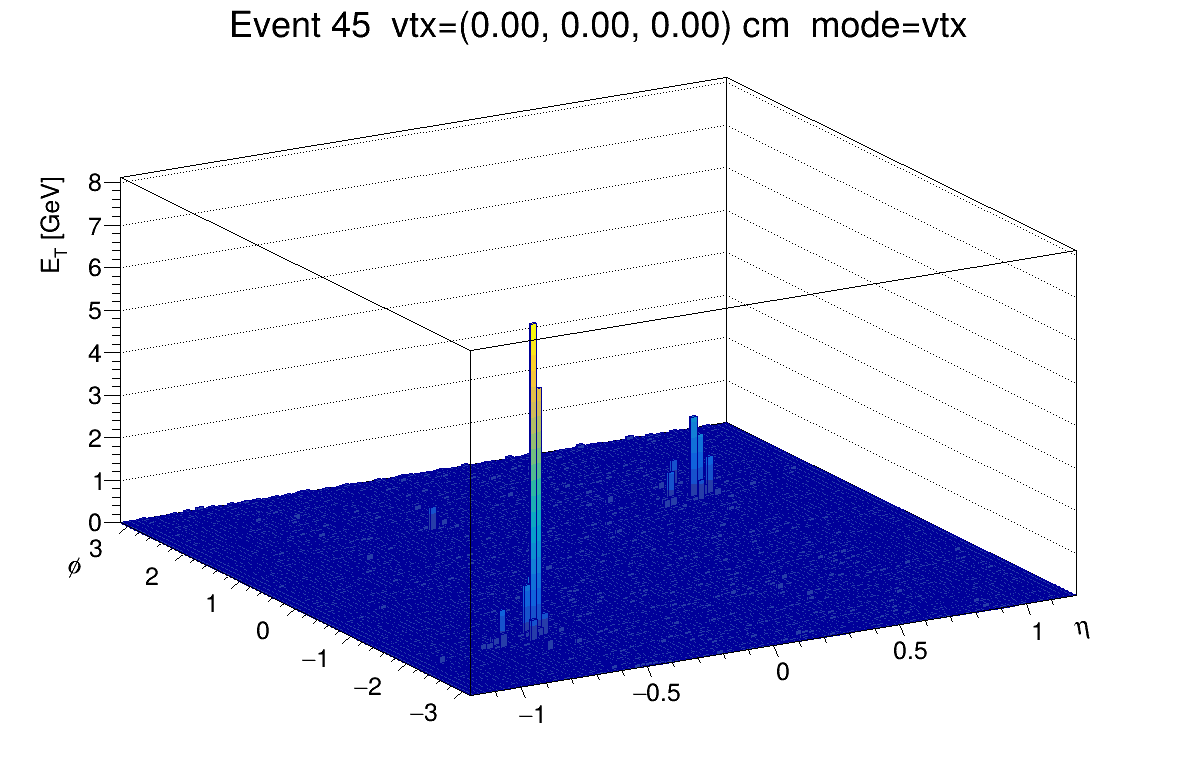
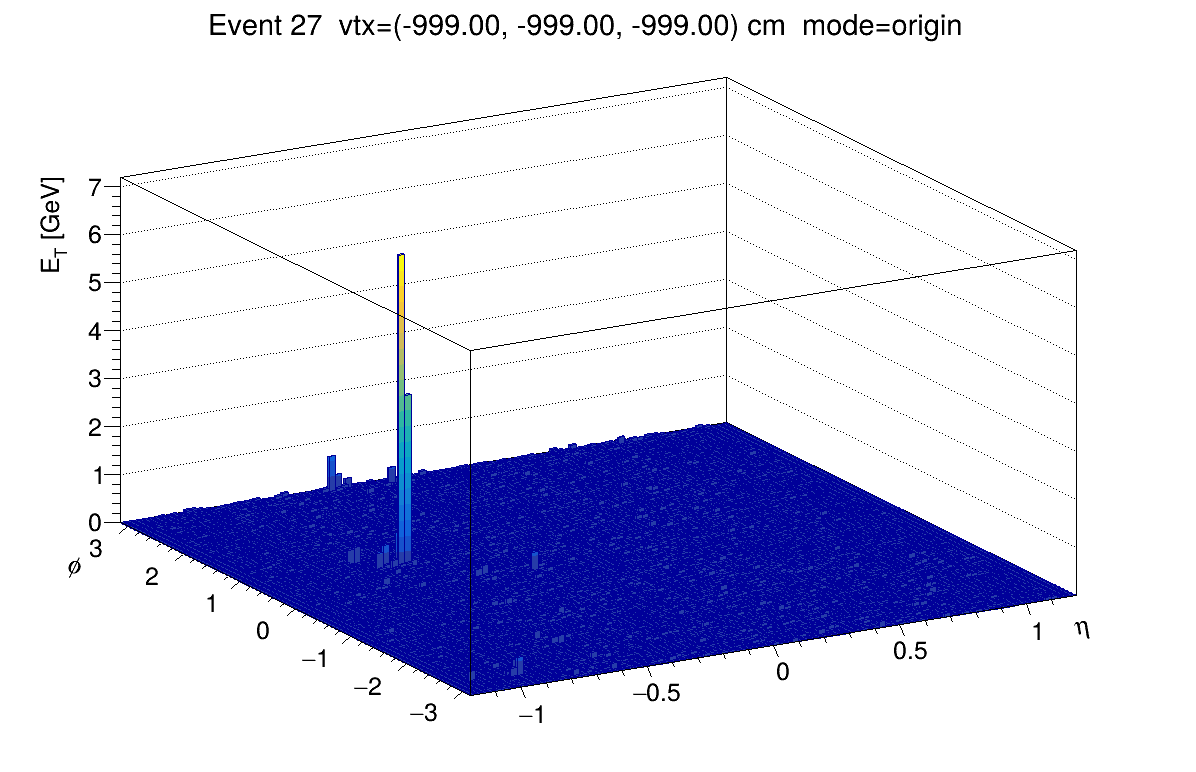
mitigation completed

diff --git a/EmcalEtViewer/macro/DrawCemcLego.C b/EmcalEtViewer/macro/DrawCemcLego.C
@@ -49,29 +49,41 @@ void DrawCemcLego(const char *file_name,
   tree->SetBranchStatus("vtx_x", 1);
   tree->SetBranchStatus("vtx_y", 1);
   tree->SetBranchStatus("vtx_z", 1);
-  // tree->SetBranchStatus("eta0", 1);
-  tree->SetBranchStatus("etavtx", 1);
-  // tree->SetBranchStatus("phi0", 1);
-  tree->SetBranchStatus("phivtx", 1);
-  // tree->SetBranchStatus("et0", 1);
-  tree->SetBranchStatus("etvtx", 1);
+  // // tree->SetBranchStatus("eta0", 1);
+  // tree->SetBranchStatus("etavtx", 1);
+  // // tree->SetBranchStatus("phi0", 1);
+  // tree->SetBranchStatus("phivtx", 1);
+  // // tree->SetBranchStatus("et0", 1);
+  // tree->SetBranchStatus("etvtx", 1);
+  
+  const bool use_vtx = (std::string(mode) == "vtx");
 
+  if (use_vtx) {
+    tree->SetBranchStatus("etavtx", 1);
+    tree->SetBranchStatus("phivtx", 1);
+    tree->SetBranchStatus("etvtx", 1);
+  } else {
+    tree->SetBranchStatus("eta0", 1);
+    tree->SetBranchStatus("phi0", 1);
+    tree->SetBranchStatus("et0", 1);
+  }
 
   tree->SetBranchAddress("event", &event);
   tree->SetBranchAddress("vtx_x", &vtx_x);
   tree->SetBranchAddress("vtx_y", &vtx_y);
   tree->SetBranchAddress("vtx_z", &vtx_z);
-  // tree->SetBranchAddress("eta0", &eta0);
-  tree->SetBranchAddress("etavtx", &etavtx);
-  // tree->SetBranchAddress("phi0", &phi0);
-  tree->SetBranchAddress("phivtx", &phivtx);
-  // tree->SetBranchAddress("et0", &et0);
-  tree->SetBranchAddress("etvtx", &etvtx);
 
+  if (use_vtx) {
+    tree->SetBranchAddress("etavtx", &etavtx);
+    tree->SetBranchAddress("phivtx", &phivtx);
+    tree->SetBranchAddress("etvtx", &etvtx);
+  } else {  
+    tree->SetBranchAddress("eta0", &eta0);
+    tree->SetBranchAddress("phi0", &phi0);
+    tree->SetBranchAddress("et0", &et0);
+  }
 
   std::cout << "Came to 4" << std::endl;
-
-  const bool use_vtx = (std::string(mode) == "vtx");
 
   gStyle->SetOptStat(0);
   TCanvas *canvas = new TCanvas("cemc_lego", "CEMC E_{T} lego", 1200, 800);
@@ -110,7 +122,7 @@ void DrawCemcLego(const char *file_name,
     if (line == "q" || line == "Q") break;
     
     /* or update in a constant seconds */
-    gSystem->Sleep(1000); // 1000 ms = 1秒
+    // gSystem->Sleep(1000); // 1000 ms = 1秒
     
     gSystem->ProcessEvents();
   }

diff --git a/EmcalEtViewer/macro/Fun4All_DisplayLegoPlot.cc b/EmcalEtViewer/macro/Fun4All_DisplayLegoPlot.cc
@@ -6,7 +6,7 @@
 #include <fun4all/Fun4AllUtils.h>
 #include <Calo_Calib.C>
 
-#include "/sphenix/user/ryotaro/DisplayLegoPlot/install/include/displaylegoplot/DisplayLegoPlot.h"
+#include "/sphenix/u/ryotaro/DirectPhotonAnalysis/EmcalEtViewer/install/include/displaylegoplot/DisplayLegoPlot.h"
 
 R__LOAD_LIBRARY(libDisplayLegoPlot.so)
 
